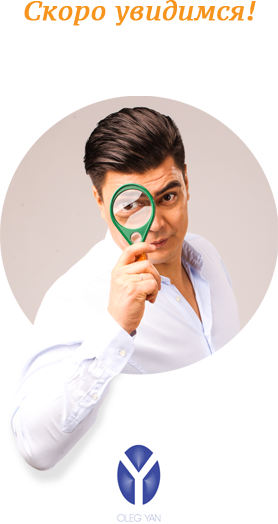
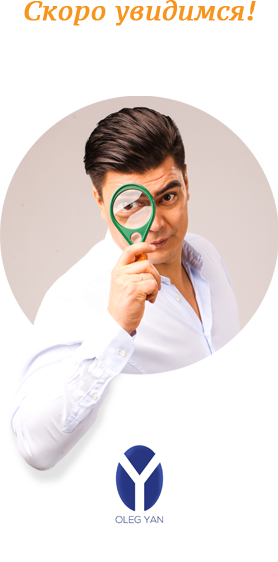
---

diff --git a/styles/soon.css b/styles/soon.css
@@ -38,7 +38,7 @@
     position: absolute;
     background: url("../images/oleg.png");
     width: 278px;
-    height: 524px;
+    height: 562px;
     top: 50%;
     margin-top: -310px;
     left: 50%;
